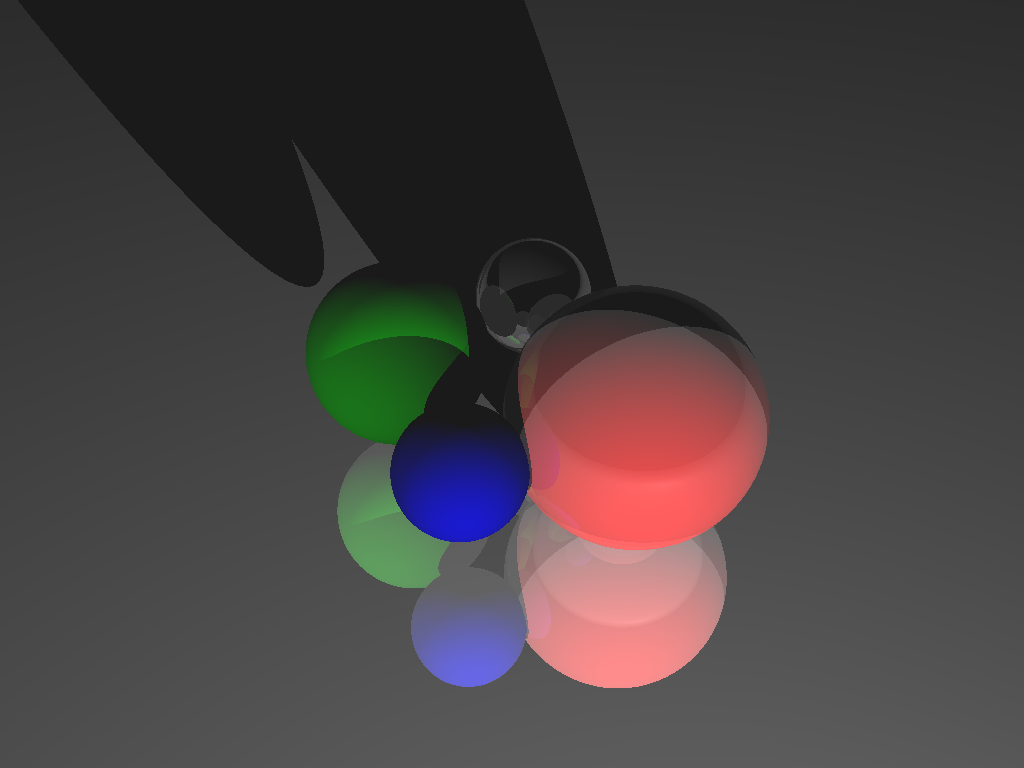
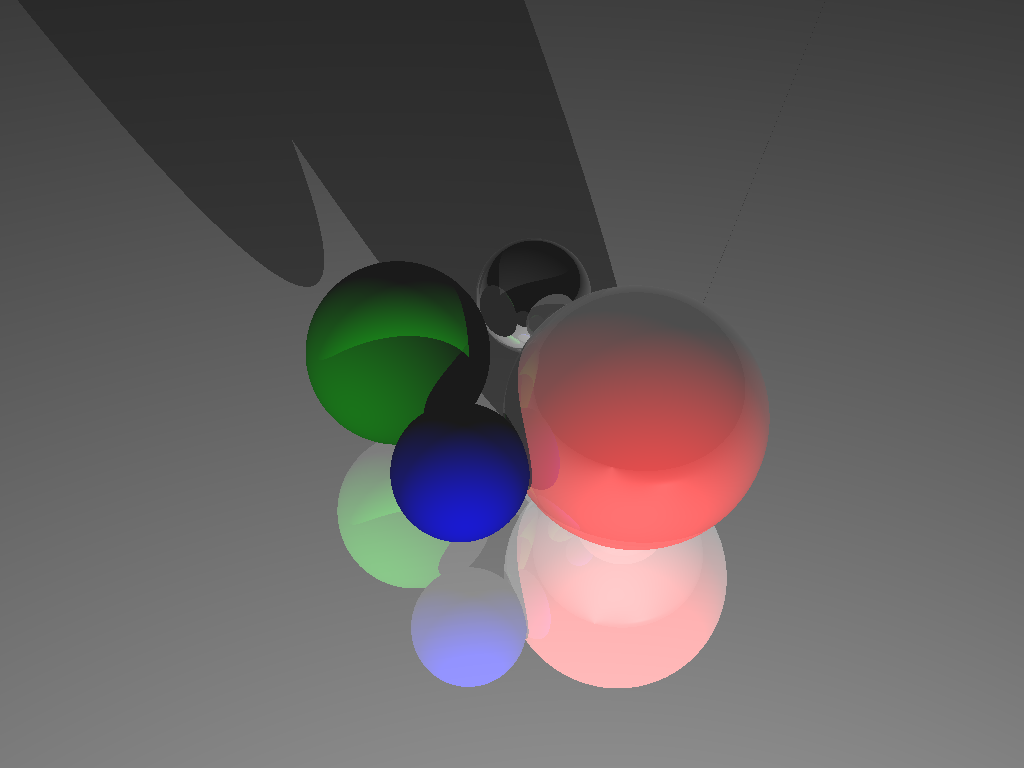
on y est ( quasi )

diff --git a/src/main/java/fr/imt/raytracer/raytracer/Intersection.java b/src/main/java/fr/imt/raytracer/raytracer/Intersection.java
@@ -70,7 +70,7 @@ public class Intersection {
         return new Color(r, g, b);
     }
 
-    public Color computeSpecular(Light light, Camera camera) {
+    public Color computeSpecular(Light light, Vector viewDir) {
         // 1. Récupération de la normale
         Vector normal = ((Vector) shape.getNormal(position)).normalize();
 
@@ -93,7 +93,7 @@ public class Intersection {
         // ------------------------------------
 
         // 2. Vecteur Vue (V) : De l'intersection VERS la caméra
-        Vector V = camera.getLookFrom().sub(position).normalize();
+        Vector V = viewDir.normalize();
 
         // 3. Vecteur Halfway (H) pour le modèle Blinn-Phong
         Vector H = L.add(V).normalize();

diff --git a/src/main/java/fr/imt/raytracer/raytracer/Scene.java b/src/main/java/fr/imt/raytracer/raytracer/Scene.java
@@ -72,8 +72,10 @@ public class Scene {
             if (isInShadow(inter, light)) continue;
 
             Color diffuse = (light instanceof DirectionalLight dl) ? inter.computeDiffuse(dl) : inter.computeDiffuse((PointLight) light);
-            Color specular = inter.computeSpecular(light, camera);
+            Vector viewDir = ray.getDirection().scale(-1.0).normalize();
 
+// On appelle la nouvelle méthode avec viewDir au lieu de camera
+            Color specular = inter.computeSpecular(light, viewDir);
             result = new Color(
                     result.r() + diffuse.r() + specular.r(),
                     result.g() + diffuse.g() + specular.g(),

diff --git a/src/main/java/fr/imt/Main.java b/src/main/java/fr/imt/Main.java
@@ -9,7 +9,7 @@ public class Main {
 
     public static void main(String[] args) throws Exception {
         SceneFileParser parser = new SceneFileParser();
-        Scene scene = parser.parse("src/main/resources/jalon5/tp61-dir.test");
+        Scene scene = parser.parse("src/main/resources/jalon5/tp64.test");
 
         Renderer renderer = new Renderer();
         renderer.render(scene);
